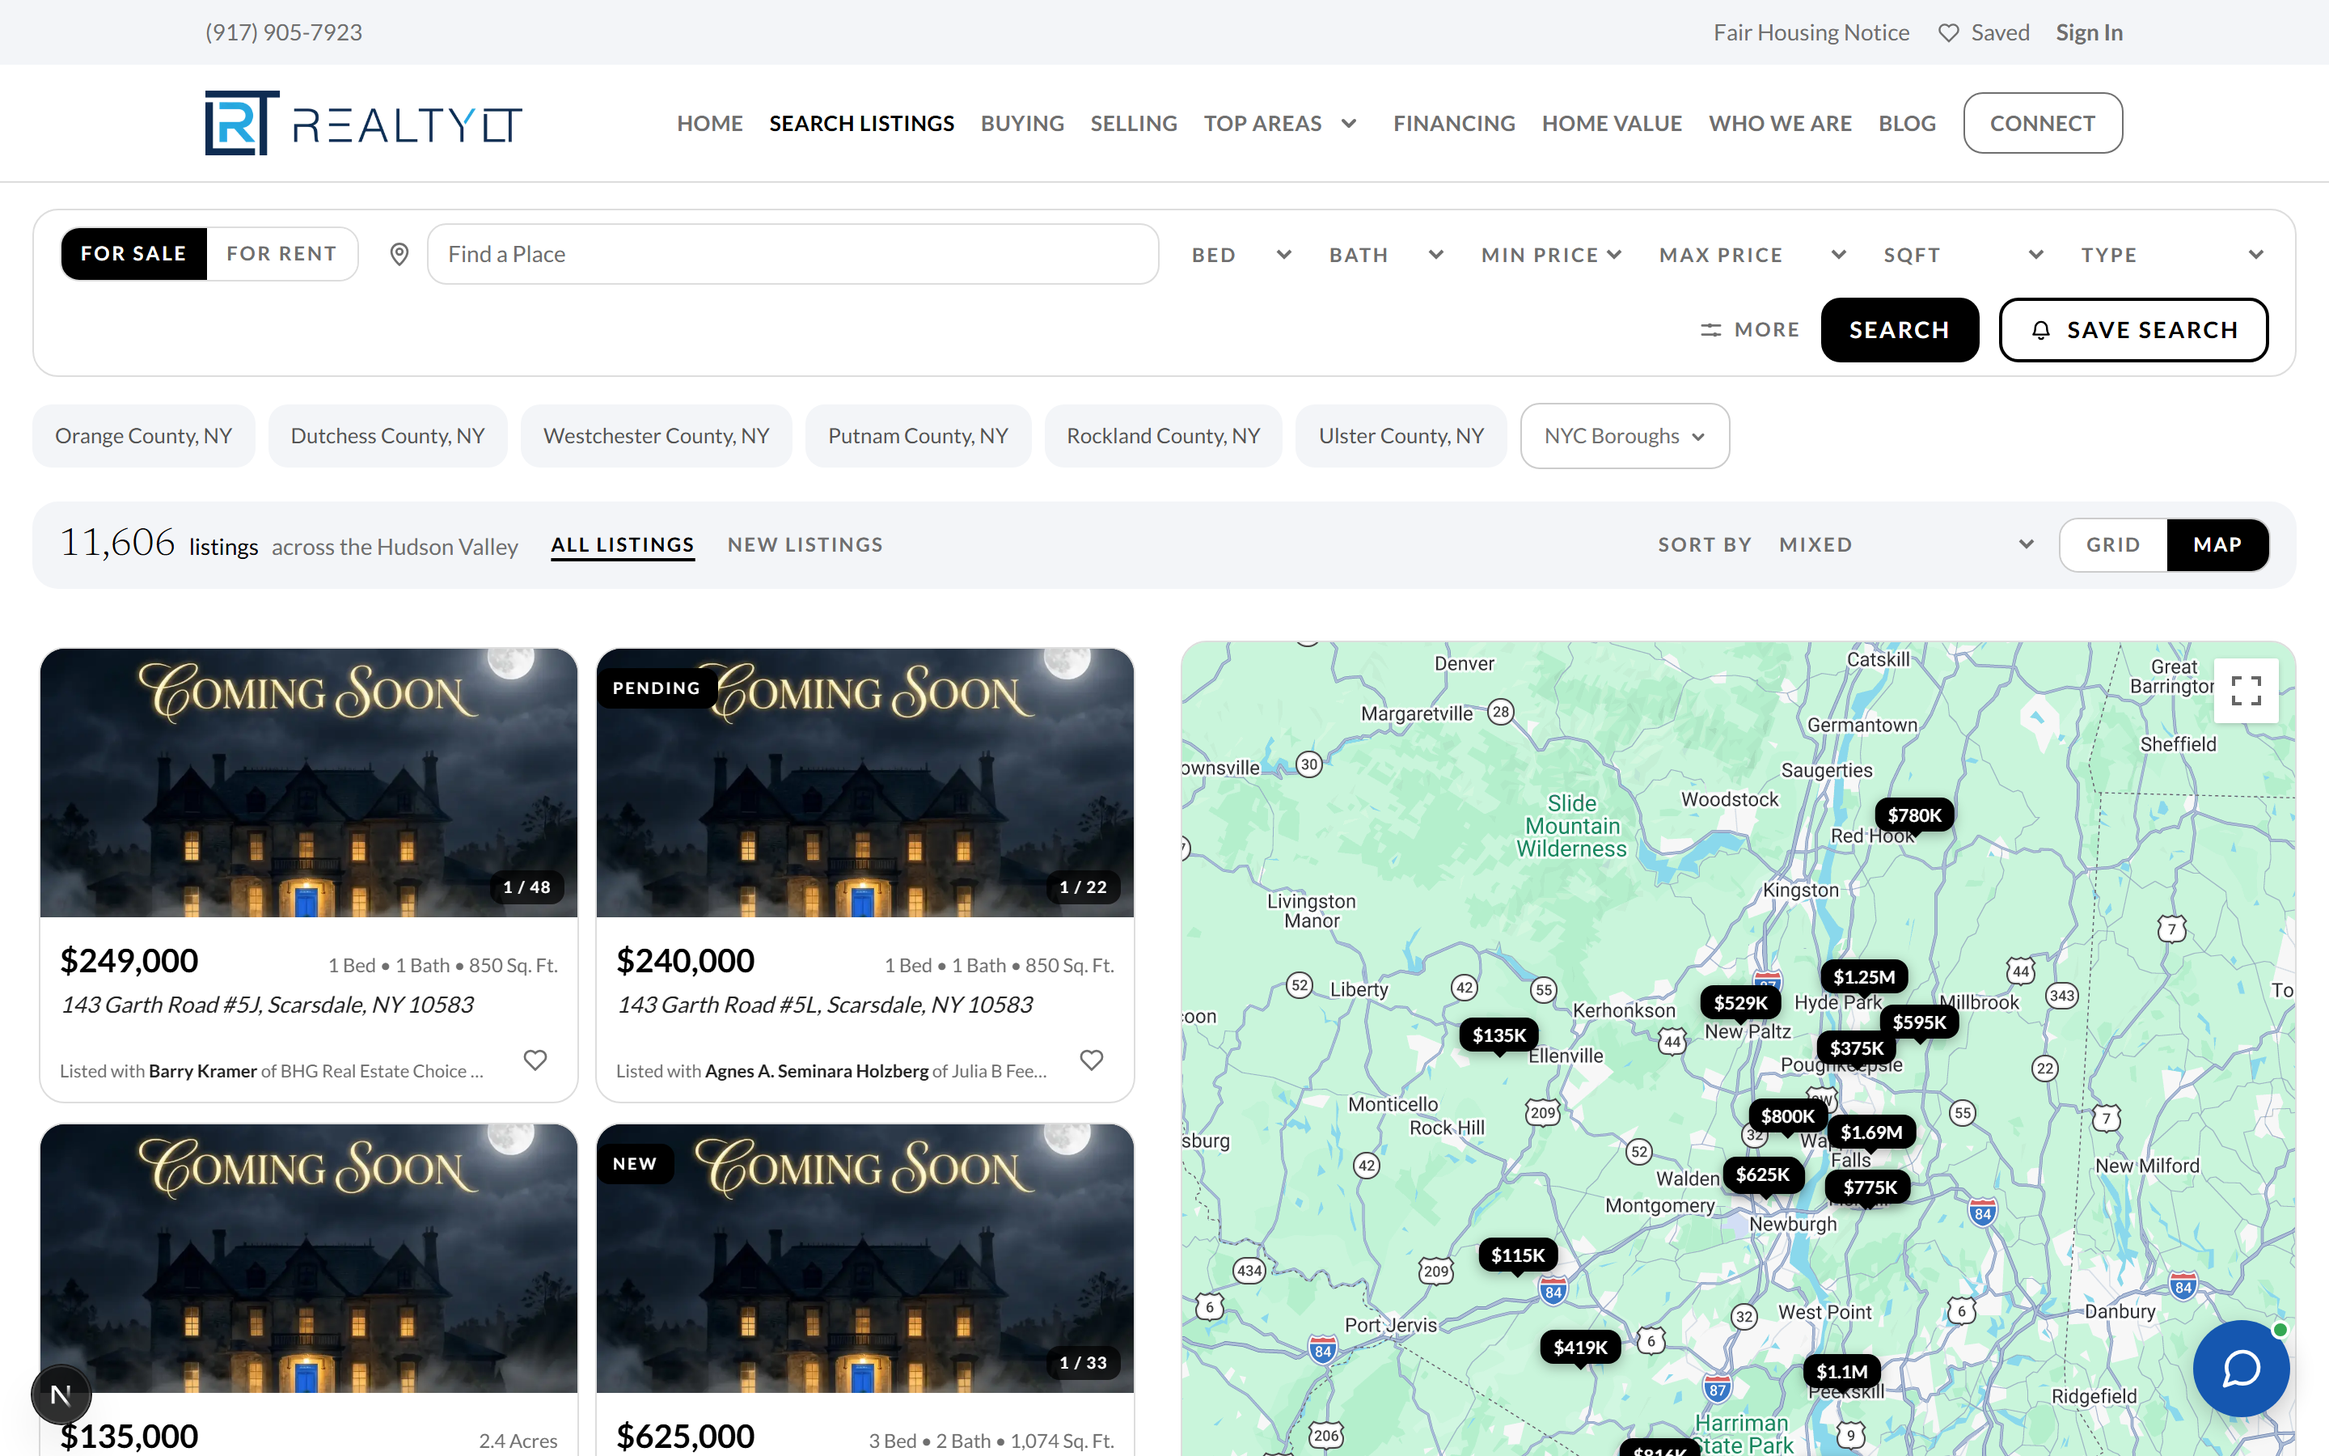
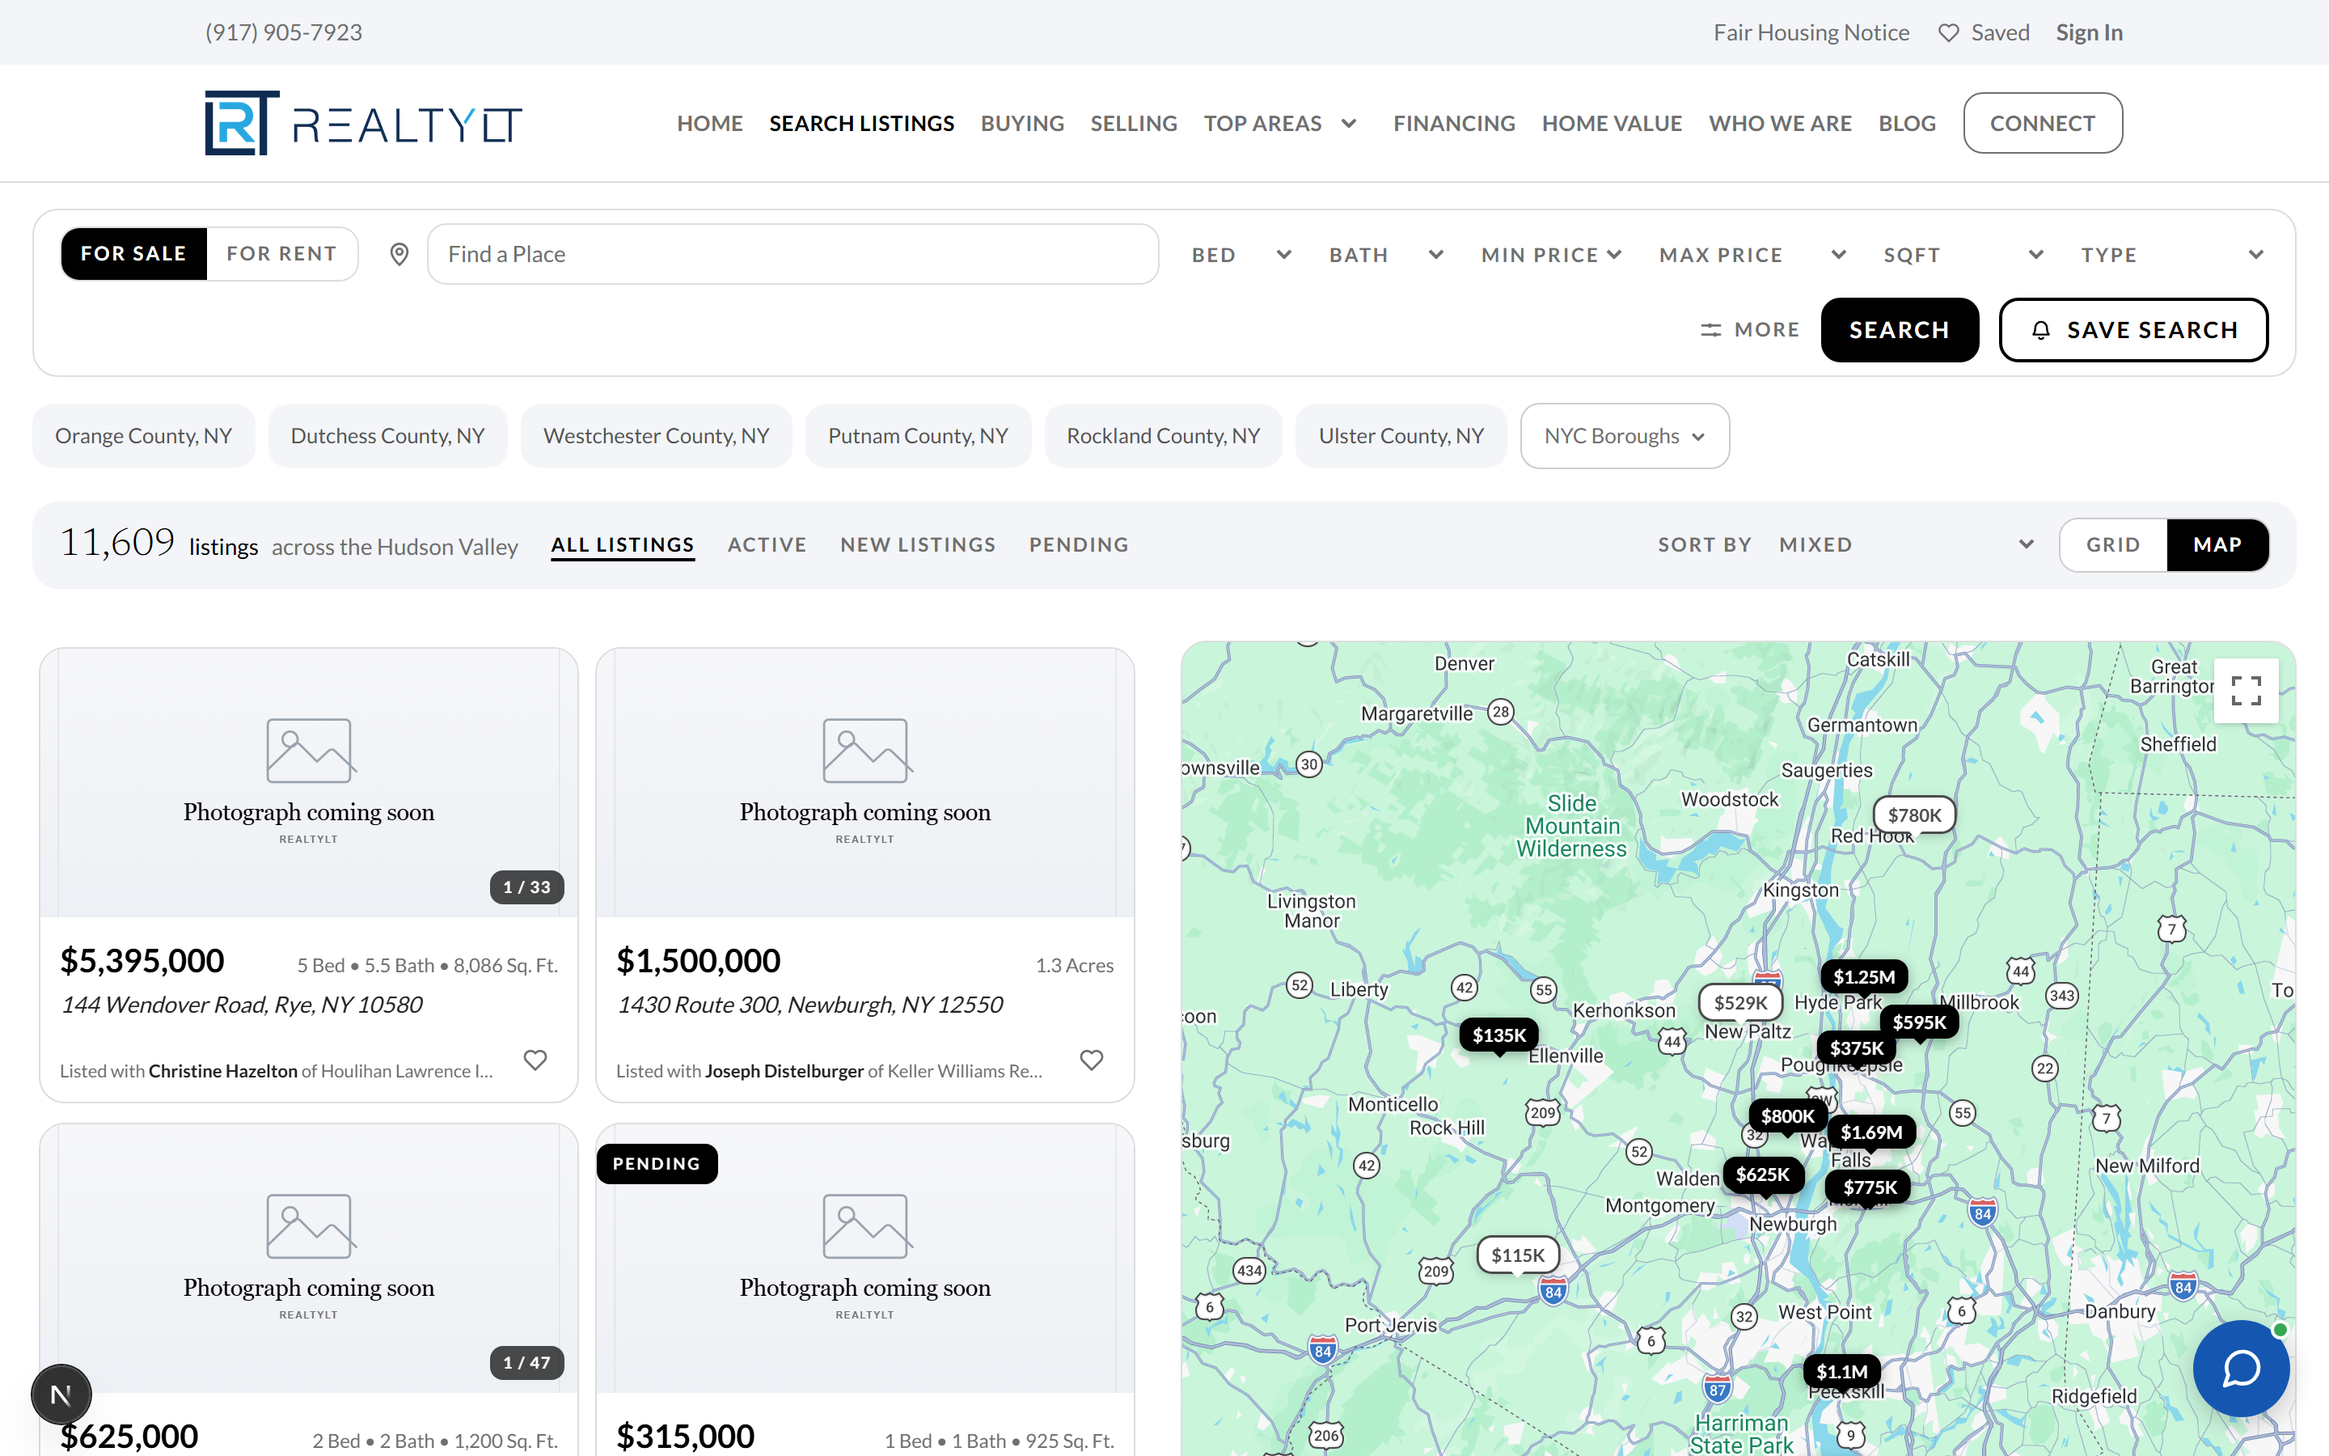
design(placeholder): no more fake house, and the rail leans where he asked
TWO CHANGES.

1. THE "COMING SOON" ARTWORK. Owner: "we need better coming soon pic, quality is low and
   in general dont like what we have now." It was his own generation (Nano Banana Pro,
   2026-07-29) — a moonlit stone manor under fog with COMING SOON in gold script — and it
   is retained in the repo rather than deleted.

   Both halves of the complaint have the same answer, and it is not a better picture. It
   was soft because a 1200px raster was filling 2x retina cards. It looked wrong because it
   was a FABRICATED PROPERTY standing in for a real one — a dramatic night scene with
   ornate gold lettering, on a site that is otherwise calm, monochrome and restrained. A
   better fake house fixes only the first half, and it appears on 6-14% of the cards on
   every search surface, so it is not a rare edge case.

   So there is no house. It is a typographic panel in the site's own palette and display
   face: "Photograph coming soon" set in Newsreader over the mist wash, one hairline frame,
   a drawn aperture mark rather than a photograph. It cannot be mistaken for the actual
   home, it cannot read as generated, it is sharp at any card size, and it is ~1KB instead
   of 50. `unoptimized` so Next does not rasterise it back into the problem.

2. THE RAIL'S LEFTOVER SLOTS GO TO THE MIDDLE. Caught by running the selector against the
   real featured inventory instead of trusting the unit tests: backfilling cheapest-band
[…]

diff --git a/components/idx/ListingCard.tsx b/components/idx/ListingCard.tsx
@@ -36,25 +36,36 @@ export function priceLabel(l: { price: number | null | undefined; propertyType?:
   return l.propertyType === "Rental" ? `${label}/mo` : label;
 }
 
-/** Branded fallback when a listing's photo isn't available yet (feed rows without Media, or photos
- * still replicating into Storage). The artwork is the OWNER'S OWN generation (2026-07-29, Google
- * Nano Banana Pro via ElevenLabs — see ATTRIBUTIONS.md): a moonlit stone manor, azure door, and
- * COMING SOON in luminous script across the sky. Same image the /api/media route redirects to on
- * its stable-empty path, so the state reads identically on every surface. The caption sits in the
- * SKY, so landscape crops keep it; caption=false is the wordless cut (the sky text edit-removed
- * with the local Mage-Flow edit model) for portrait overlay tiles, which would slice the words
- * mid-letter and then print their own price over the photo anyway. */
+/** Branded fallback when a listing's photograph isn't available yet (feed rows without Media, or
+ * photos still replicating into Storage). Same asset the /api/media route redirects to on its
+ * stable-empty path, so the state reads identically on every surface.
+ *
+ * IT IS NOT A PICTURE OF A HOUSE, deliberately. It used to be: a moonlit stone manor under fog
+ * with COMING SOON in gold script (the owner's own Nano Banana Pro generation, 2026-07-29). He
+ * asked for it to be replaced — "quality is low and in general dont like what we have now" — and
+ * both halves of that have the same answer. It was soft because a 1200px raster was filling 2x
+ * retina cards, and it looked wrong because it was a FABRICATED PROPERTY standing in for a real
+ * one, on a site that is otherwise calm and monochrome. A better fake house would have fixed only
+ * the first half. This is a typographic panel in the site's own palette and display face: it
+ * cannot be mistaken for the actual home, it cannot read as generated, it is resolution
+ * independent at any card size, and it is ~1KB instead of 50.
+ *
+ * `caption=false` is the wordless cut for portrait overlay tiles, which print their own price and
+ * address over the image and do not need a second line of type competing with it.
+ *
+ * `unoptimized` because Next's image optimizer rasterises SVG — which would throw away the entire
+ * reason this is an SVG. bg-mist, not bg-ink: the panel is light, and a black backing plate showed
+ * as a hard frame around it while the image decoded. */
 export function NoPhoto({ caption = true }: { caption?: boolean } = {}) {
   return (
-    <div className="absolute inset-0 bg-ink" aria-hidden>
+    <div className="absolute inset-0 bg-mist" aria-hidden>
       <Image
-        src={caption ? "/images/mls/coming-soon.webp" : "/images/mls/coming-soon-notext.webp"}
+        src={caption ? "/images/mls/coming-soon.svg" : "/images/mls/coming-soon-notext.svg"}
         alt=""
         fill
+        unoptimized
         sizes="(max-width: 640px) 100vw, (max-width: 1024px) 50vw, 33vw"
-        // Caption cut: bias the crop toward the sky so landscape cards never shave the
-        // lettering's ascenders; the wordless cut centers on the house.
-        className={caption ? "object-cover object-[center_35%]" : "object-cover"}
+        className="object-cover"
       />
     </div>
   );

diff --git a/lib/idx/price-spread.ts b/lib/idx/price-spread.ts
@@ -26,12 +26,19 @@ export interface Priced {
 /** The bands, cheapest first. `share` is how many of a selection SHOULD come from each band
  * when supply allows; leftovers cascade down to the bands that actually have stock. */
 export const PRICE_BANDS: ReadonlyArray<{ label: string; min: number; max: number; share: number }> = [
-  { label: "under $500k", min: 0, max: 500_000, share: 0.2 },
+  { label: "under $500k", min: 0, max: 500_000, share: 0.15 },
   { label: "$500k–$1M", min: 500_000, max: 1_000_000, share: 0.3 },
-  { label: "$1M–$5M", min: 1_000_000, max: 5_000_000, share: 0.25 },
+  { label: "$1M–$5M", min: 1_000_000, max: 5_000_000, share: 0.3 },
   { label: "$5M–$10M", min: 5_000_000, max: 10_000_000, share: 0.15 },
   { label: "$10M+", min: 10_000_000, max: Infinity, share: 0.1 },
 ];
+
+/** Which band to hand a LEFTOVER slot to, best first. Not cheapest-first, which is the obvious
+ * order and the wrong one: run against the real inventory it filled a rail with $29,000 and
+ * $30,000 land parcels sitting beside a $10M house. The owner asked for "55% between 500k-5m",
+ * so the two middle bands take the slack, then the entry band, and the scarce top bands last
+ * (they already hold a guaranteed slot each and there is barely any stock to spare). */
+const BACKFILL_ORDER = [1, 2, 0, 3, 4] as const;
 
 export function bandOf(price: number): number {
   for (let i = 0; i < PRICE_BANDS.length; i++) {
@@ -73,8 +80,13 @@ export function pickPriceSpread<T extends Priced>(rows: readonly T[], limit: num
       picked.push(...buckets[i].splice(0, quota[i]));
     }
   }
-  // Backfill whatever the quotas left unspent, cheapest-band-first so the rail leans toward
-  // what most visitors are actually shopping for.
+  // Backfill whatever the quotas left unspent, middle bands first (see BACKFILL_ORDER).
+  for (const i of BACKFILL_ORDER) {
+    if (picked.length >= limit) break;
+    picked.push(...buckets[i].splice(0, limit - picked.length));
+  }
+  // Last resort: if the preferred bands are exhausted, take anything rather than ship a short
+  // rail with holes in it.
   for (let i = 0; picked.length < limit && i < buckets.length; i++) {
     picked.push(...buckets[i].splice(0, limit - picked.length));
   }

diff --git a/lib/idx/price-spread.test.ts b/lib/idx/price-spread.test.ts
@@ -69,6 +69,25 @@ describe("pickPriceSpread — a rail that spans the range", () => {
     expect(pickPriceSpread([], 8)).toEqual([]);
     expect(pickPriceSpread(pool, 0)).toEqual([]);
   });
+
+  it("gives the leftover slots to the MIDDLE bands, not to the cheapest", () => {
+    // Run against the real featured inventory, backfilling cheapest-first put a $29,000 and a
+    // $30,000 land parcel on the rail beside a $10M house. The owner asked for "55% between
+    // 500k-5m", so the slack belongs to the middle.
+    const realistic = [
+      ...Array.from({ length: 20 }, (_, i) => at(29_000 + i, `junk${i}`)),
+      ...Array.from({ length: 20 }, (_, i) => at(750_000 + i, `mid${i}`)),
+      ...Array.from({ length: 20 }, (_, i) => at(2_400_000 + i, `upper${i}`)),
+      at(6_800_000, "lux"),
+      at(10_000_000, "mega"),
+    ];
+    const out = pickPriceSpread(realistic, 8);
+    const midCount = out.filter((r) => r.price >= 500_000 && r.price < 5_000_000).length;
+    expect(midCount).toBeGreaterThanOrEqual(4); // the bulk sits where he asked for it
+    expect(out.filter((r) => r.price < 500_000)).toHaveLength(1); // exactly the guaranteed slot
+    expect(out.some((r) => r.price >= 10_000_000)).toBe(true);
+    expect(out.some((r) => r.price >= 5_000_000 && r.price < 10_000_000)).toBe(true);
+  });
 });
 
 describe("interleaveByBand — the mixed sort's actual promise", () => {

diff --git a/app/api/media/[id]/[idx]/route.test.ts b/app/api/media/[id]/[idx]/route.test.ts
@@ -92,7 +92,7 @@ describe("GET /api/media/[id]/[idx] — failure contract (never a FAKE photo)", 
     const fetchMock = stubImage();
     const res = await call("L1", "5");
     expect(res.status).toBe(302);
-    expect(res.headers.get("Location")).toBe("/images/mls/coming-soon.webp");
+    expect(res.headers.get("Location")).toBe("/images/mls/coming-soon.svg");
     expect(res.headers.get("Cache-Control")).toContain("s-maxage=3000");
     expect(res.headers.get("Cache-Control")).not.toContain("no-store");
     expect(res.headers.get("X-Media-Status")).toBe("empty");
@@ -110,7 +110,7 @@ describe("GET /api/media/[id]/[idx] — failure contract (never a FAKE photo)", 
     // will for this sync. Anything transient must stay undecodable so the client can drop the tile.
     const res = await call("L1", "5");
     expect(res.status).toBe(302);
-    expect(res.headers.get("Location")).toBe("/images/mls/coming-soon.webp");
+    expect(res.headers.get("Location")).toBe("/images/mls/coming-soon.svg");
   });
 });
 

diff --git a/app/api/media/[id]/[idx]/route.ts b/app/api/media/[id]/[idx]/route.ts
@@ -30,7 +30,7 @@ import { publicPhotoUrl, storageObjectExists } from "@/lib/idx/storage";
  */
 
 // The branded "photo coming soon" artwork is the owner-picked still at
-// public/images/mls/coming-soon.webp — the SAME image ListingCard's NoPhoto renders, so the
+// public/images/mls/coming-soon.svg — the SAME image ListingCard's NoPhoto renders, so the
 // state reads identically whether a tile falls back client-side or hits this route.
 
 // Aggressive CDN cache so repeat views never re-hit the media host: fresh at the edge for a day,
@@ -74,7 +74,7 @@ function placeholder(cacheControl: string, status: "empty" | "unavailable"): Res
   return new Response(null, {
     status: 302,
     headers: {
-      Location: "/images/mls/coming-soon.webp",
+      Location: "/images/mls/coming-soon.svg",
       "Cache-Control": cacheControl,
       "X-Media-Status": status,
     },

diff --git a/lib/idx/db.test.ts b/lib/idx/db.test.ts
@@ -85,7 +85,10 @@ describe("DbIdxClient.search", () => {
 
     const rail = await new DbIdxClient().getFeatured(1);
 
-    expect(featuredCalls).toBe(2);
+    // 3, not 2: the rail draws TWO pools now — the newest, plus a price-descending one so the
+    // scarce high-end bands are represented (only 1.2% of inventory is above $5M, so freshness
+    // alone never surfaces a $10M home). The first call is the injected drop, then both pools.
+    expect(featuredCalls).toBe(3);
     expect(rail[0]?.id).toBe("KEY777"); // real row, not the snapshot fallback
   });
 

diff --git a/components/idx/map-shared.ts b/components/idx/map-shared.ts
@@ -169,7 +169,7 @@ export function popupNode(
     // branded still instead, once, no retry loop. (Owner-reported: "34 pics… letting me
     // switch but not loading.")
     img.addEventListener("error", () => {
-      if (!img.src.endsWith("/images/mls/coming-soon-notext.webp")) img.src = "/images/mls/coming-soon-notext.webp";
+      if (!img.src.endsWith("/images/mls/coming-soon-notext.svg")) img.src = "/images/mls/coming-soon-notext.svg";
     });
     let idx = 0;
     const show = (to: number) => {

diff --git a/public/images/ATTRIBUTIONS.md b/public/images/ATTRIBUTIONS.md
@@ -75,5 +75,7 @@ below as unresolved rather than quietly omitted.
 | public/images/why/our-save-search.webp | RealtyLT save-a-search | RealtyLT | Our own screenshot | [source](https://github.com/levan-tsi/realtylt-website) |
 | public/images/mls/onekey-mls.svg | One Key MLS mark | One Key MLS | Trademark, required IDX attribution | [source](https://www.onekeymls.com/) |
 | public/images/mls/onekey-mls-on-dark.svg | One Key MLS mark, light-on-dark | One Key MLS | Trademark, required IDX attribution | [source](https://www.onekeymls.com/) |
-| public/images/mls/coming-soon.webp | "Coming soon" placeholder — moonlit manor, owner-generated | Levan Tsiklauri, Google Nano Banana Pro via ElevenLabs | Owner's own generated artwork | [source](https://elevenlabs.io/) |
-| public/images/mls/coming-soon-notext.webp | Wordless cut for overlay tiles (sky text removed with local Mage-Flow edit) | Levan Tsiklauri + RealtyLT | Owner's own generated artwork | [source](https://elevenlabs.io/) |
+| public/images/mls/coming-soon.svg | "Photograph coming soon" panel — IN USE. Typographic, drawn in the site's own palette and display face | RealtyLT | Our own artwork | — |
+| public/images/mls/coming-soon-notext.svg | Wordless cut of the same panel, for overlay tiles that print their own price | RealtyLT | Our own artwork | — |
+| public/images/mls/coming-soon.webp | RETIRED 2026-08-02, kept on purpose — "coming soon" placeholder, moonlit manor | Levan Tsiklauri, Google Nano Banana Pro via ElevenLabs | Owner's own generated artwork | [source](https://elevenlabs.io/) |
+| public/images/mls/coming-soon-notext.webp | RETIRED 2026-08-02, kept on purpose — wordless cut (sky text removed with local Mage-Flow edit) | Levan Tsiklauri + RealtyLT | Owner's own generated artwork | [source](https://elevenlabs.io/) |
